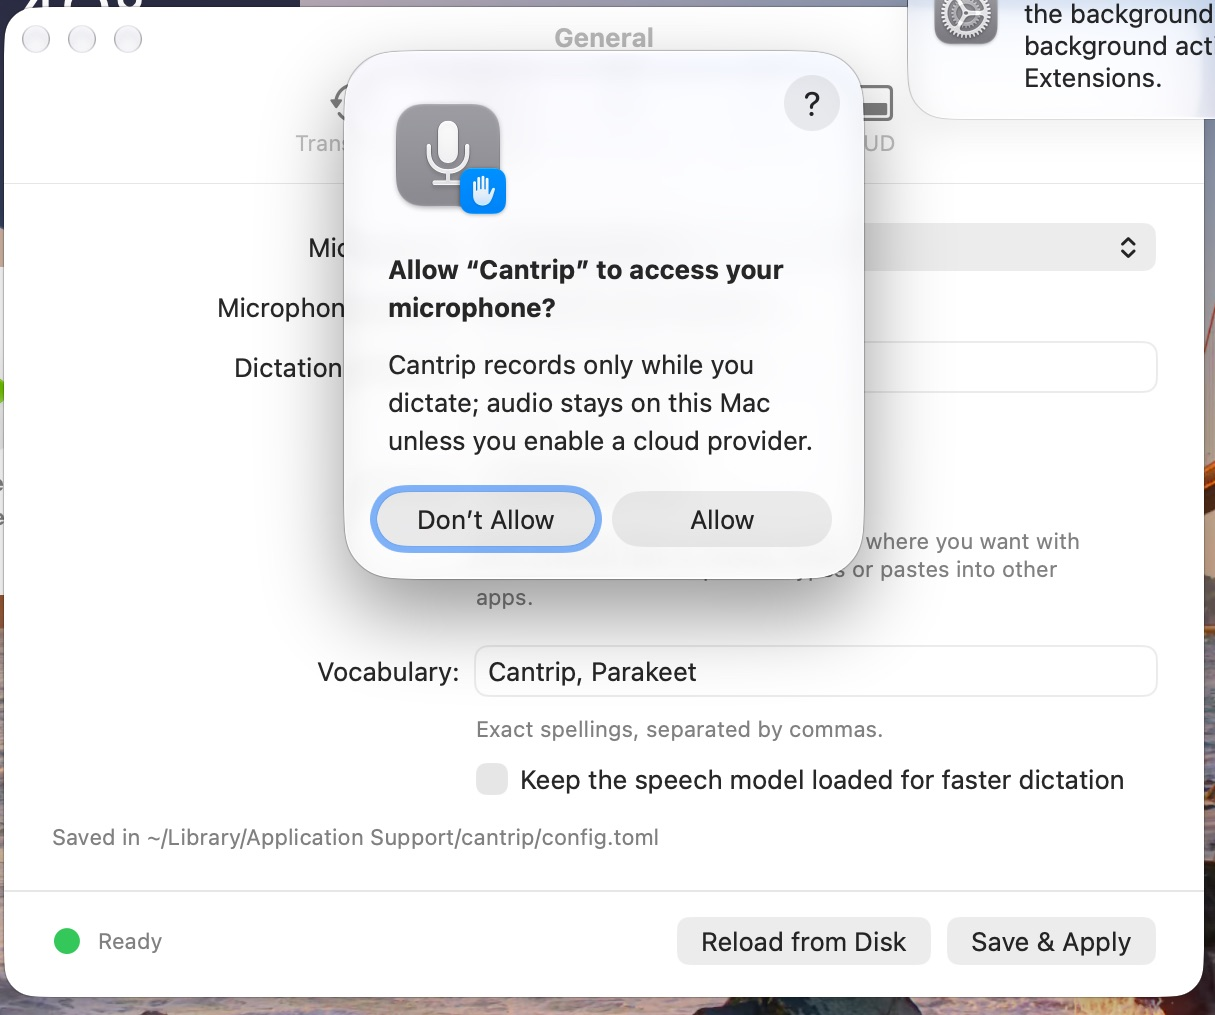
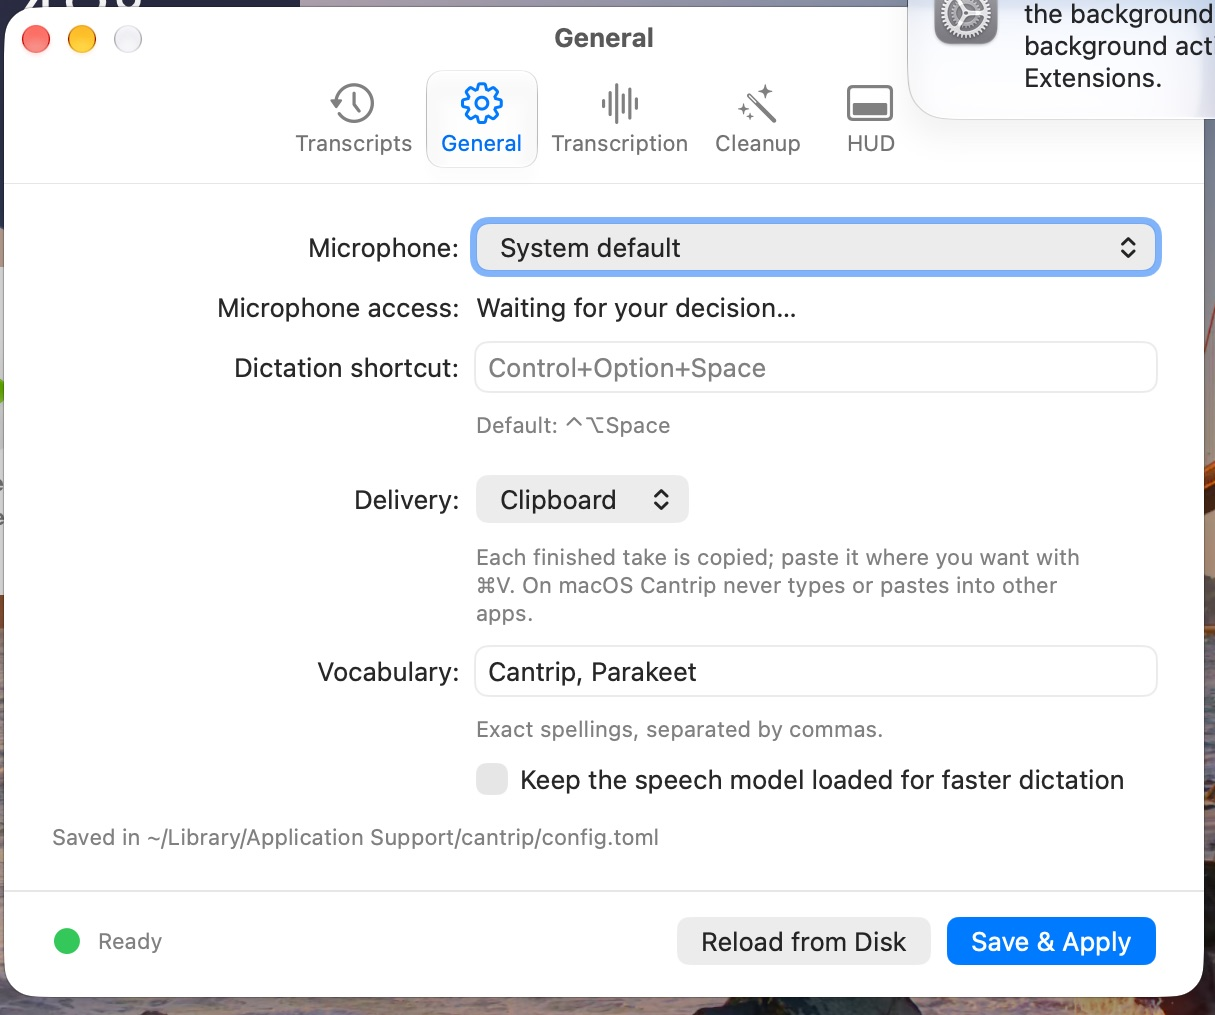
docs: record native Settings VM evidence with build revisions
Refs #198

diff --git a/docs/evidence/verify-cantrip/2026-10-30-macos-native-settings/README.md b/docs/evidence/verify-cantrip/2026-10-30-macos-native-settings/README.md
@@ -1,43 +1,56 @@
-# Native macOS Settings window — 2026-10-30
+# Native macOS Settings window — 2026-10-31
 
-Sanitized evidence for `feat/macos-native-windows` (#198). Build: ad-hoc
-`Cantrip.app` packaged with `scripts/package-macos --target aarch64-apple-darwin
---ad-hoc` from the branch's working tree, installed in a disposable macOS 27.0
-`macvm` guest (light appearance, no audio input device). The guest held a
-synthetic commented `config.toml` and seven synthetic public transcripts; no
-real speech, audio or personal text is recorded here.
+Sanitized evidence for `feat/macos-native-windows` (#211, #198), run in a
+disposable macOS 27.0 `macvm` guest (light appearance, no audio input device)
+with a synthetic commented `config.toml` and seven synthetic public
+transcripts. No real speech, audio or personal text is recorded here.
 
-## Observed
+| Build | `source_revision` | `source_tree_dirty` | `Contents/MacOS/cantrip` SHA-256 |
+| --- | --- | --- | --- |
[2 lines of base64/hex data omitted]
 
-1. `open -a Cantrip`, then the menu's **Settings…** (`1-menu-settings-item.jpg`)
-   opened the AppKit Settings window inside the app: `pgrep -fl cantrip`
-   listed one process before and after.
-2. **Transcripts** pane: seven saved transcripts, newest first. Copy on the
-   newest row showed `copied` and "Copied transcript from … Paste when ready."
-   (`2-transcripts-copied.jpg`); `pbpaste` in the guest returned that
-   transcript's full saved text, byte for byte.
-3. **General** pane: Microphone access read "Not requested yet". **Allow
-   Microphone Access…** raised macOS's prompt for "Cantrip" while
-   `cantrip status` reported `microphone: requesting`
-   (`3-general-allow-prompt.jpg`). After Allow: `microphone: authorized`.
-4. Vocabulary edited to add `Tahoe`, then **HUD** → Always show state labels,
-   then **Save & Apply**: the window read "Saved and applied"
-   (`4-hud-saved-and-applied.jpg`). The file kept its comment line and gained
-   `vocabulary = ["Cantrip", "Parakeet", "Tahoe"]` and `[hud] labels = true`;
-   `cantrip status --json` reported `"hud": {"labels": true, …}`.
-5. With the window open, `cantrip settings` exited 0 and the same window stayed
-   the only one; `pgrep` still listed one process.
-6. **Quit Cantrip** from the menu closed the window and the app:
-   `pgrep -fl cantrip` found nothing (exit 1).
-7. With no app running, `cantrip settings` exited 0 after opening Cantrip
-   through LaunchServices (new pid), which showed Settings on Transcripts
-   (`5-cli-opened-app-on-transcripts.jpg`).
+Both are ad-hoc `Cantrip.app` packages from `scripts/package-macos --target
+aarch64-apple-darwin --ad-hoc`; the guest's `shasum` matched the hash above and
+`build.json` reported the revision. B adds only the access-row layout fix.
+
+## Build A: the Settings journey
+
+1. `open -a Cantrip`, then the menu's **Settings…** opened the AppKit window
+   inside the app on Transcripts (`1-settings-from-menu.jpg`); `pgrep -fl
+   cantrip` listed one process.
+2. Copy on the newest row showed `copied` and the result line
+   (`2-transcripts-copied.jpg`); the guest's `pbpaste` held that transcript's
+   full saved text.
+3. General → **Allow Microphone Access…** raised macOS's prompt for "Cantrip"
+   (`3-general-allow-prompt.jpg`). `cantrip status --json` reported
+   `{"authorization": "requesting", "grantee": "cantrip"}`, then
+   `"authorized"` after Allow.
+4. Vocabulary edited to add `Tahoe`, then HUD → Always show state labels, then
+   **Save & Apply** read "Saved and applied" (`4-hud-saved-and-applied.jpg`).
+   The file kept its comment line and gained `vocabulary = ["Cantrip",
+   "Parakeet", "Tahoe"]` and `labels = true`; status reported
+   `"hud": {"labels": true, …}`.
+5. ⌘W closed the window and `cantrip settings` (exit 0) opened a new window on
+   Transcripts with one app process (`5-closed-then-cli-reopened.jpg`).
+6. **Quit Cantrip** from the menu left no `cantrip` process (`pgrep` exit 1).
+
+## Build B: an outside daemon's grantee
+
+`cantrip daemon` was started by the guest agent, so no app bundle launched it:
+status reported `"grantee": {"launcher": null}`. After `tccutil reset
+Microphone`, status reported `"authorization": "not-determined"`. Cantrip.app
+attached to that daemon, and `cantrip settings` → General showed "Not
+requested yet", **Allow Microphone Access for the app that started this
+daemon…** on its own row, and the warning "The app that started this daemon,
+and everything it runs, share this microphone access."
+(`6-outside-daemon-grantee-row.jpg`). Build A showed the same text but its
+long button widened the form past the window's edge; build B fixes that.
 
 ## Not verified here
 
-- Dark appearance in the live guest. Every pane was rendered offscreen in a
-  dark-appearance session on the build host and inspected there.
-- A missing or repaired configuration file, the microphone list with real
-  devices, and an app attached to an external `cantrip daemon`.
-- Keyboard focus after `cantrip settings`: on macOS 27 the window came forward
-  but the requesting process did not hand Cantrip keyboard focus.
+- Dark appearance in the live guest (offscreen renders only, on the build host).
+- A named launcher such as Terminal, the denied and restricted rows, and
+  answering Allow for an outside daemon.
+- That the ⌘W and the request in step 5 fell within one app tick.
+- A repaired configuration file and real microphone devices.
